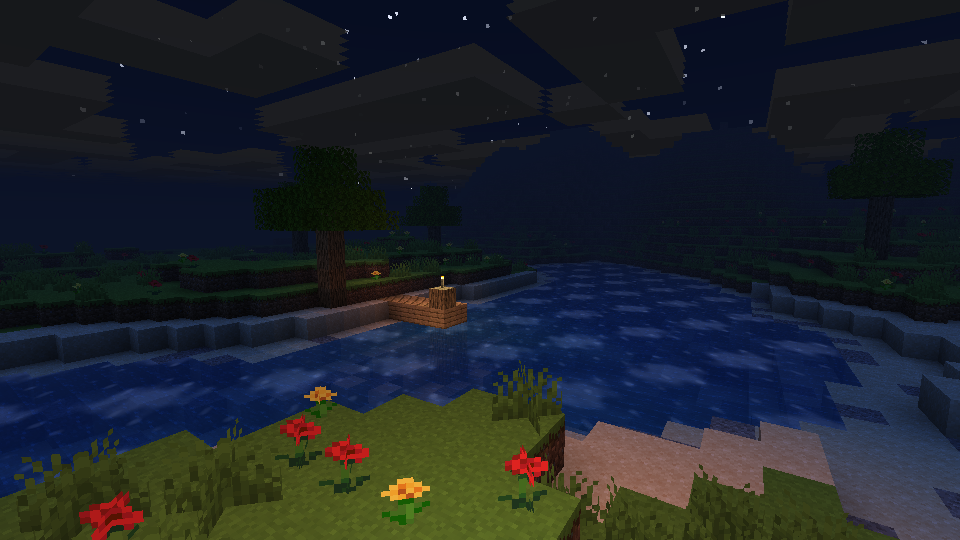
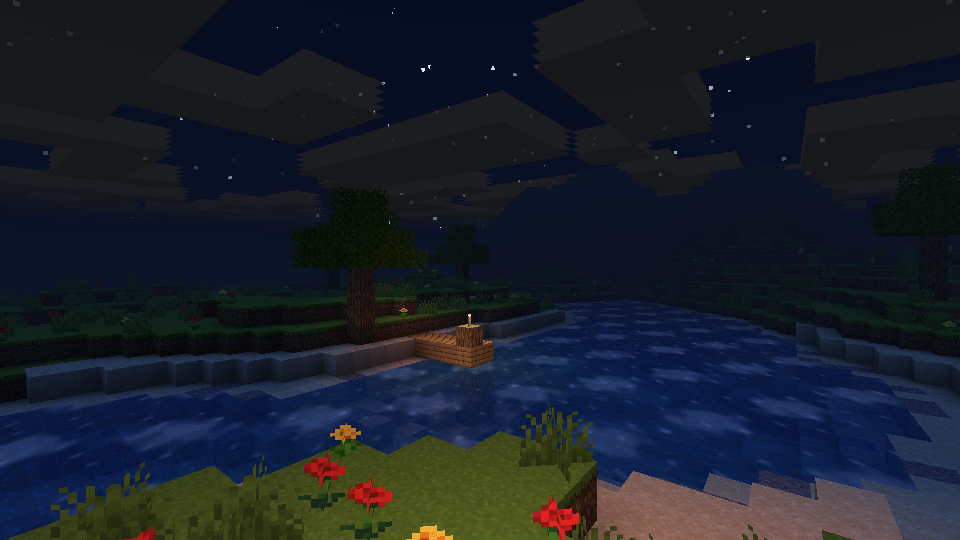
feat(renderer): render Anima v0.6.0 radiant sun.png and add sun_showcase.png comparison

Changed region(s): [[0.0, 0.2667, 1.0, 1.0]]

diff --git a/Anima-renderer/src/dev/anima/renderer/AnimaRendererMain.java b/Anima-renderer/src/dev/anima/renderer/AnimaRendererMain.java
@@ -33,15 +33,15 @@ public final class AnimaRendererMain {
         VoxelRenderer renderer = new VoxelRenderer(world, atlas);
         System.out.printf("[Anima-renderer] World & lighting built in %d ms%n", System.currentTimeMillis() - t0);
 
-        // Classic Minecraft first-person gameplay camera overlooking the grassy bank, pond, pier+torch, and hero oak tree
+        // Classic Minecraft first-person gameplay camera overlooking the grassy bank, pond, pier+torch, hero oak tree, and sky/sun
         float camX = 35.5f, camY = 22.4f, camZ = 24.5f;
-        float lookX = 48.5f, lookY = 19.6f, lookZ = 44.0f;
+        float lookX = 50.5f, lookY = 21.8f, lookZ = 44.0f;
         float fov = 68f;
 
         record Scenario(String id, String label, float dayTicks, float rain, boolean holdingTorch) {}
         Scenario[] scenarios = {
                 new Scenario("day", "Midday (5200 ticks)", 5200f, 0f, false),
-                new Scenario("golden", "Golden Hour (11350 ticks)", 11350f, 0f, false),
+                new Scenario("golden", "Golden Hour + Radiant Sun (11050 ticks)", 11050f, 0f, false),
                 new Scenario("night", "Moonlit Night + Offhand Torch (18000 ticks)", 18000f, 0f, true)
         };
 
@@ -141,6 +141,32 @@ public final class AnimaRendererMain {
         Path presetPath = outDir.resolve("presets_sheet.png");
         ImageIO.write(presetSheet, "png", presetPath.toFile());
         System.out.println("[Anima-renderer] Saved presets sheet -> " + presetPath.toAbsolutePath());
+
+        // Dedicated Sun & Wavy Water comparison (camera aimed directly toward the Golden Hour sun over the pond!)
+        AnimaAtmosphere sunAtm = new AnimaAtmosphere(10900f, 0f);
+        float sCamX = 48.0f, sCamY = 21.5f, sCamZ = 22.0f;
+        float sLookX = sCamX + sunAtm.sunDirX * 30f;
+        float sLookY = sCamY + sunAtm.sunDirY * 22f - 2.0f;
+        float sLookZ = sCamZ + sunAtm.sunDirZ * 30f;
+        BufferedImage sunVan = renderer.render(width, height, sCamX, sCamY, sCamZ, sLookX, sLookY, sLookZ, 68f, sunAtm, vanillaCfg, 2.5f);
+        BufferedImage sunAni = renderer.render(width, height, sCamX, sCamY, sCamZ, sLookX, sLookY, sLookZ, 68f, sunAtm, animaCfg, 2.5f);
+
+        BufferedImage sunSheet = new BufferedImage(width * 2 + pad * 3, height + pad * 2 + headerH, BufferedImage.TYPE_INT_RGB);
+        Graphics2D sg = sunSheet.createGraphics();
+        sg.setRenderingHint(RenderingHints.KEY_TEXT_ANTIALIASING, RenderingHints.VALUE_TEXT_ANTIALIAS_ON);
+        sg.setColor(new Color(18, 20, 26));
+        sg.fillRect(0, 0, sunSheet.getWidth(), sunSheet.getHeight());
+        sg.setFont(new Font("SansSerif", Font.BOLD, 20));
+        sg.setColor(new Color(235, 240, 248));
+        sg.drawString("ANIMA v0.6.0 — Radiant Sun & Seamless Wavy Water (Vanilla vs Anima Lush)", pad + 6, 30);
+        sg.drawImage(sunVan, pad, headerH + pad, null);
+        sg.drawImage(sunAni, pad * 2 + width, headerH + pad, null);
+        drawBadge(sg, pad + 14, headerH + pad + 14, "VANILLA — Square Sun & Flat Water", new Color(25, 28, 35, 195), Color.WHITE);
+        drawBadge(sg, pad * 2 + width + 14, headerH + pad + 14, "ANIMA v0.6.0 — Radiant Sun & Seamless Wavy Water", new Color(18, 48, 62, 210), new Color(165, 240, 255));
+        sg.dispose();
+        Path sunPath = outDir.resolve("sun_showcase.png");
+        ImageIO.write(sunSheet, "png", sunPath.toFile());
+        System.out.println("[Anima-renderer] Saved sun showcase -> " + sunPath.toAbsolutePath());
     }
 
     private static void drawBadge(Graphics2D g, int x, int y, String text, Color bg, Color fg) {

diff --git a/Anima-renderer/src/dev/anima/renderer/VoxelRenderer.java b/Anima-renderer/src/dev/anima/renderer/VoxelRenderer.java
@@ -276,7 +276,7 @@ public final class VoxelRenderer {
             return;
         }
 
-        sampleMc26Sky(dx, dy, dz, atm, config, skyZenith, fogColor, outRgb);
+        sampleMc26Sky(dx, dy, dz, atm, config, skyZenith, fogColor, atlas, outRgb);
         blendMc26Clouds(ox, oy, oz, dx, dy, dz, atm, outRgb);
     }
 
@@ -357,6 +357,7 @@ public final class VoxelRenderer {
             AnimaConfig config,
             float[] skyZenith,
             float[] fogColor,
+            TextureAtlas atlas,
             float[] outRgb) {
 
         float elev = ColorMath.clamp01(dy);
@@ -374,9 +375,38 @@ public final class VoxelRenderer {
             ColorMath.lerpRgb(outRgb, sunsetCol, ColorMath.clamp01(glowBand * strength), outRgb);
         }
 
-        // Classic Minecraft square sun
-        if (atm.dayFactor > 0.08f && sunDot > 0.994f) {
-            outRgb[0] = 1.0f; outRgb[1] = 0.98f; outRgb[2] = 0.88f;
+        // Sun rendering: Vanilla square sun vs Anima's 256x256 radiant sun.png (additive blended just like SkyRenderer!)
+        if (atm.dayFactor > 0.08f && sunDot > 0.85f) {
+            // Build tangent basis around sunDir
+            float sx = atm.sunDirX, sy = atm.sunDirY, sz = atm.sunDirZ;
+            float rx = -sz, rz = sx;
+            float rLen = (float) Math.sqrt(rx * rx + rz * rz);
+            if (rLen < 1e-4f) { rx = 1f; rz = 0f; rLen = 1f; }
+            rx /= rLen; rz /= rLen;
+            float ux = -rz * sy;
+            float uy = rz * sx - rx * sz;
+            float uz = rx * sy;
+
+            float localX = (dx * rx + dz * rz) / Math.max(0.1f, sunDot);
+            float localY = (dx * ux + dy * uy + dz * uz) / Math.max(0.1f, sunDot);
+
+            if (config.isActive() && config.skyEnhancement) {
+                float halfSize = 0.28f; // Minecraft sun quad angular half-size
+                float su = (localX / halfSize) * 0.5f + 0.5f;
+                float sv = (localY / halfSize) * 0.5f + 0.5f;
+                if (su >= 0f && su <= 1f && sv >= 0f && sv <= 1f) {
+                    float[] sunRgb = new float[3];
+                    atlas.sampleAnimaSun(su, sv, sunRgb);
+                    outRgb[0] = ColorMath.clamp01(outRgb[0] + sunRgb[0] * atm.dayFactor);
+                    outRgb[1] = ColorMath.clamp01(outRgb[1] + sunRgb[1] * atm.dayFactor);
+                    outRgb[2] = ColorMath.clamp01(outRgb[2] + sunRgb[2] * atm.dayFactor);
+                }
+            } else {
+                // Classic harsh vanilla square sun
+                if (Math.abs(localX) < 0.065f && Math.abs(localY) < 0.065f) {
+                    outRgb[0] = 1.0f; outRgb[1] = 0.99f; outRgb[2] = 0.90f;
+                }
+            }
         }
 
         // Classic Minecraft moon + stars at night

diff --git a/Anima-renderer/src/dev/anima/renderer/TextureAtlas.java b/Anima-renderer/src/dev/anima/renderer/TextureAtlas.java
@@ -46,6 +46,7 @@ public final class TextureAtlas {
     private final int[] dandelion = new int[SIZE * SIZE];
     private final int[] torchTex = new int[SIZE * SIZE];
     private final int[] waterStill = new int[SIZE * SIZE];
+    private BufferedImage animaSunImg;
 
     public final boolean loadedRealTextures;
     public final String textureSource;
@@ -74,6 +75,18 @@ public final class TextureAtlas {
             loadDirect(zip, "assets/minecraft/textures/block/dandelion.png", dandelion);
             loadDirect(zip, "assets/minecraft/textures/block/torch.png", torchTex);
             loadDirect(zip, "assets/minecraft/textures/block/water_still.png", waterStill);
+        }
+
+        // Load Anima-mod's actual 256x256 radiant sun.png texture
+        Path[] sunCandidates = {
+                Path.of("..", "Anima-mod", "src", "client", "resources", "resourcepacks", "anima_shaders", "assets", "minecraft", "textures", "environment", "celestial", "sun.png"),
+                Path.of("Anima-mod", "src", "client", "resources", "resourcepacks", "anima_shaders", "assets", "minecraft", "textures", "environment", "celestial", "sun.png")
+        };
+        for (Path sp : sunCandidates) {
+            if (Files.exists(sp)) {
+                animaSunImg = ImageIO.read(sp.toFile());
+                break;
+            }
         }
 
         this.loadedRealTextures = true;
@@ -237,6 +250,24 @@ public final class TextureAtlas {
         outRgb[0] = (((texel >> 16) & 0xFF) / 255f) * tr;
         outRgb[1] = (((texel >> 8) & 0xFF) / 255f) * tg;
         outRgb[2] = ((texel & 0xFF) / 255f) * tb;
+    }
+
+    /**
+     * Samples Anima-mod's actual 256x256 radiant sun.png at UV in [0, 1] (bilinear filtered).
+     */
+    public void sampleAnimaSun(float u, float v, float[] outRgb) {
+        if (animaSunImg == null || u < 0f || u > 1f || v < 0f || v > 1f) {
+            outRgb[0] = 0f; outRgb[1] = 0f; outRgb[2] = 0f;
+            return;
+        }
+        int w = animaSunImg.getWidth();
+        int h = animaSunImg.getHeight();
+        int px = Math.max(0, Math.min(w - 1, (int) (u * w)));
+        int py = Math.max(0, Math.min(h - 1, (int) (v * h)));
+        int argb = animaSunImg.getRGB(px, py);
+        outRgb[0] = ((argb >> 16) & 0xFF) / 255f;
+        outRgb[1] = ((argb >> 8) & 0xFF) / 255f;
+        outRgb[2] = (argb & 0xFF) / 255f;
     }
 
     public static void unpackRgba(int argb, float[] outRgb) {
